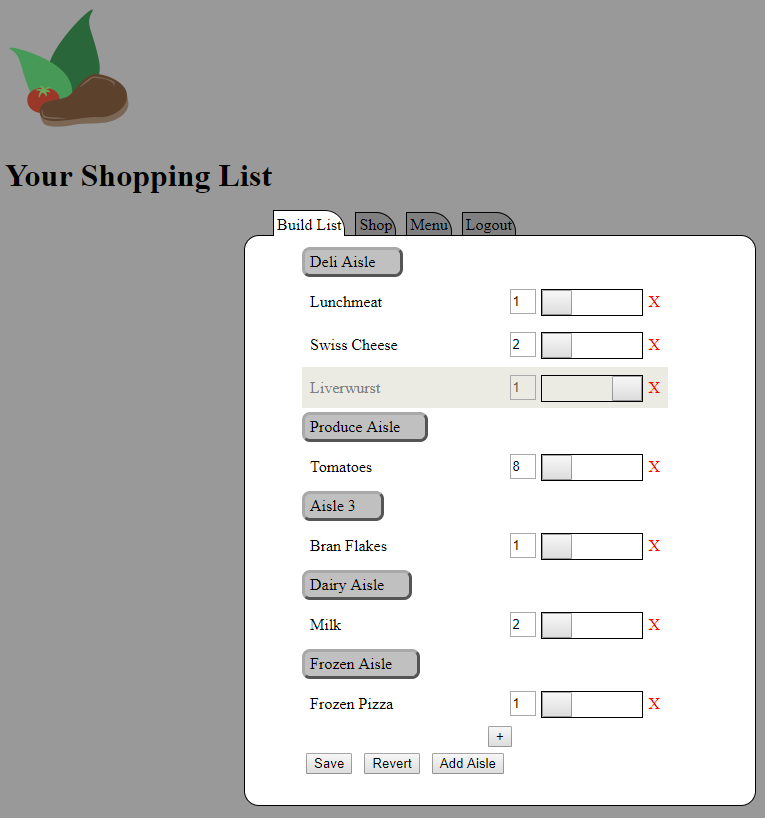
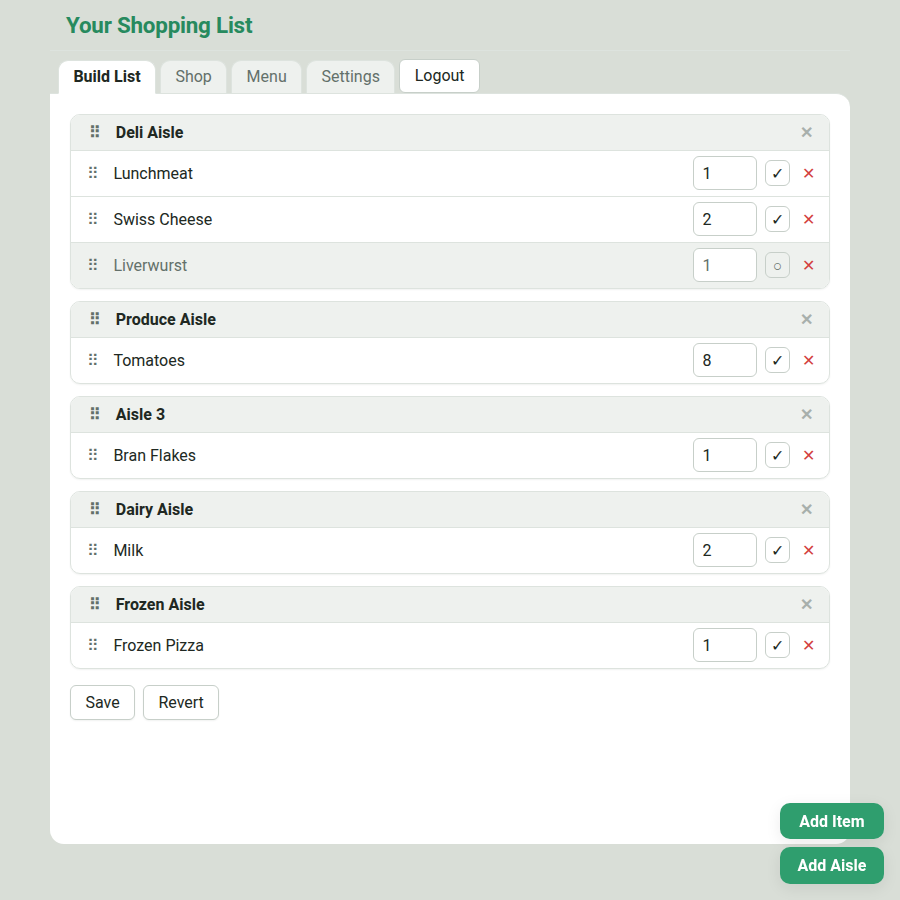
Replace docs/shoppingListScreenshot.PNG with a React Build List screenshot
Check off the corresponding TODO in react-rewrite-plan.md.

diff --git a/docs/react-rewrite-plan.md b/docs/react-rewrite-plan.md
@@ -206,10 +206,14 @@ that login/auth works through the proxy before writing any real UI components.
       without extra plumbing there; added dev-only Vite proxy entries
       (`/app/favicon-32x32.png` etc. → the PHP dev server) so they resolve
       locally too. Removed the now-unused `ui/public/favicon.svg`.
-- [ ] **Replace `docs/shoppingListScreenshot.PNG` with a screenshot of the new UI.**
-      Currently shows the legacy jQuery UI (referenced from `README.md`); should be
-      updated once the React UI's styling/appearance is representative of the
-      intended cutover look.
+- [x] **Replace `docs/shoppingListScreenshot.PNG` with a screenshot of the new UI.**
+      Replaced with a screenshot of the React Build List tab (`ui/`, `/app/`) for a
+      brand-new registration, showing the seeded starter list (Lunchmeat, Swiss
+      Cheese, Liverwurst, Tomatoes, Bran Flakes, Milk, Frozen Pizza) across its
+      five aisles. Captured headlessly via the `run-shopping-list` skill's
+      Playwright driver against the dev servers, registering a fresh throwaway
+      account rather than the shared `devagent` one so the seeded-list behavior
+      (see the earlier starter-list TODO) was actually exercised.
 - [ ] **Password reset flow needs a React-side redo, and appears currently broken.**
       The recovery email (`service/templates/recoveryEmail.php`) links to
       `<HOST>/resetPassword/<token>` — a path segment — but
